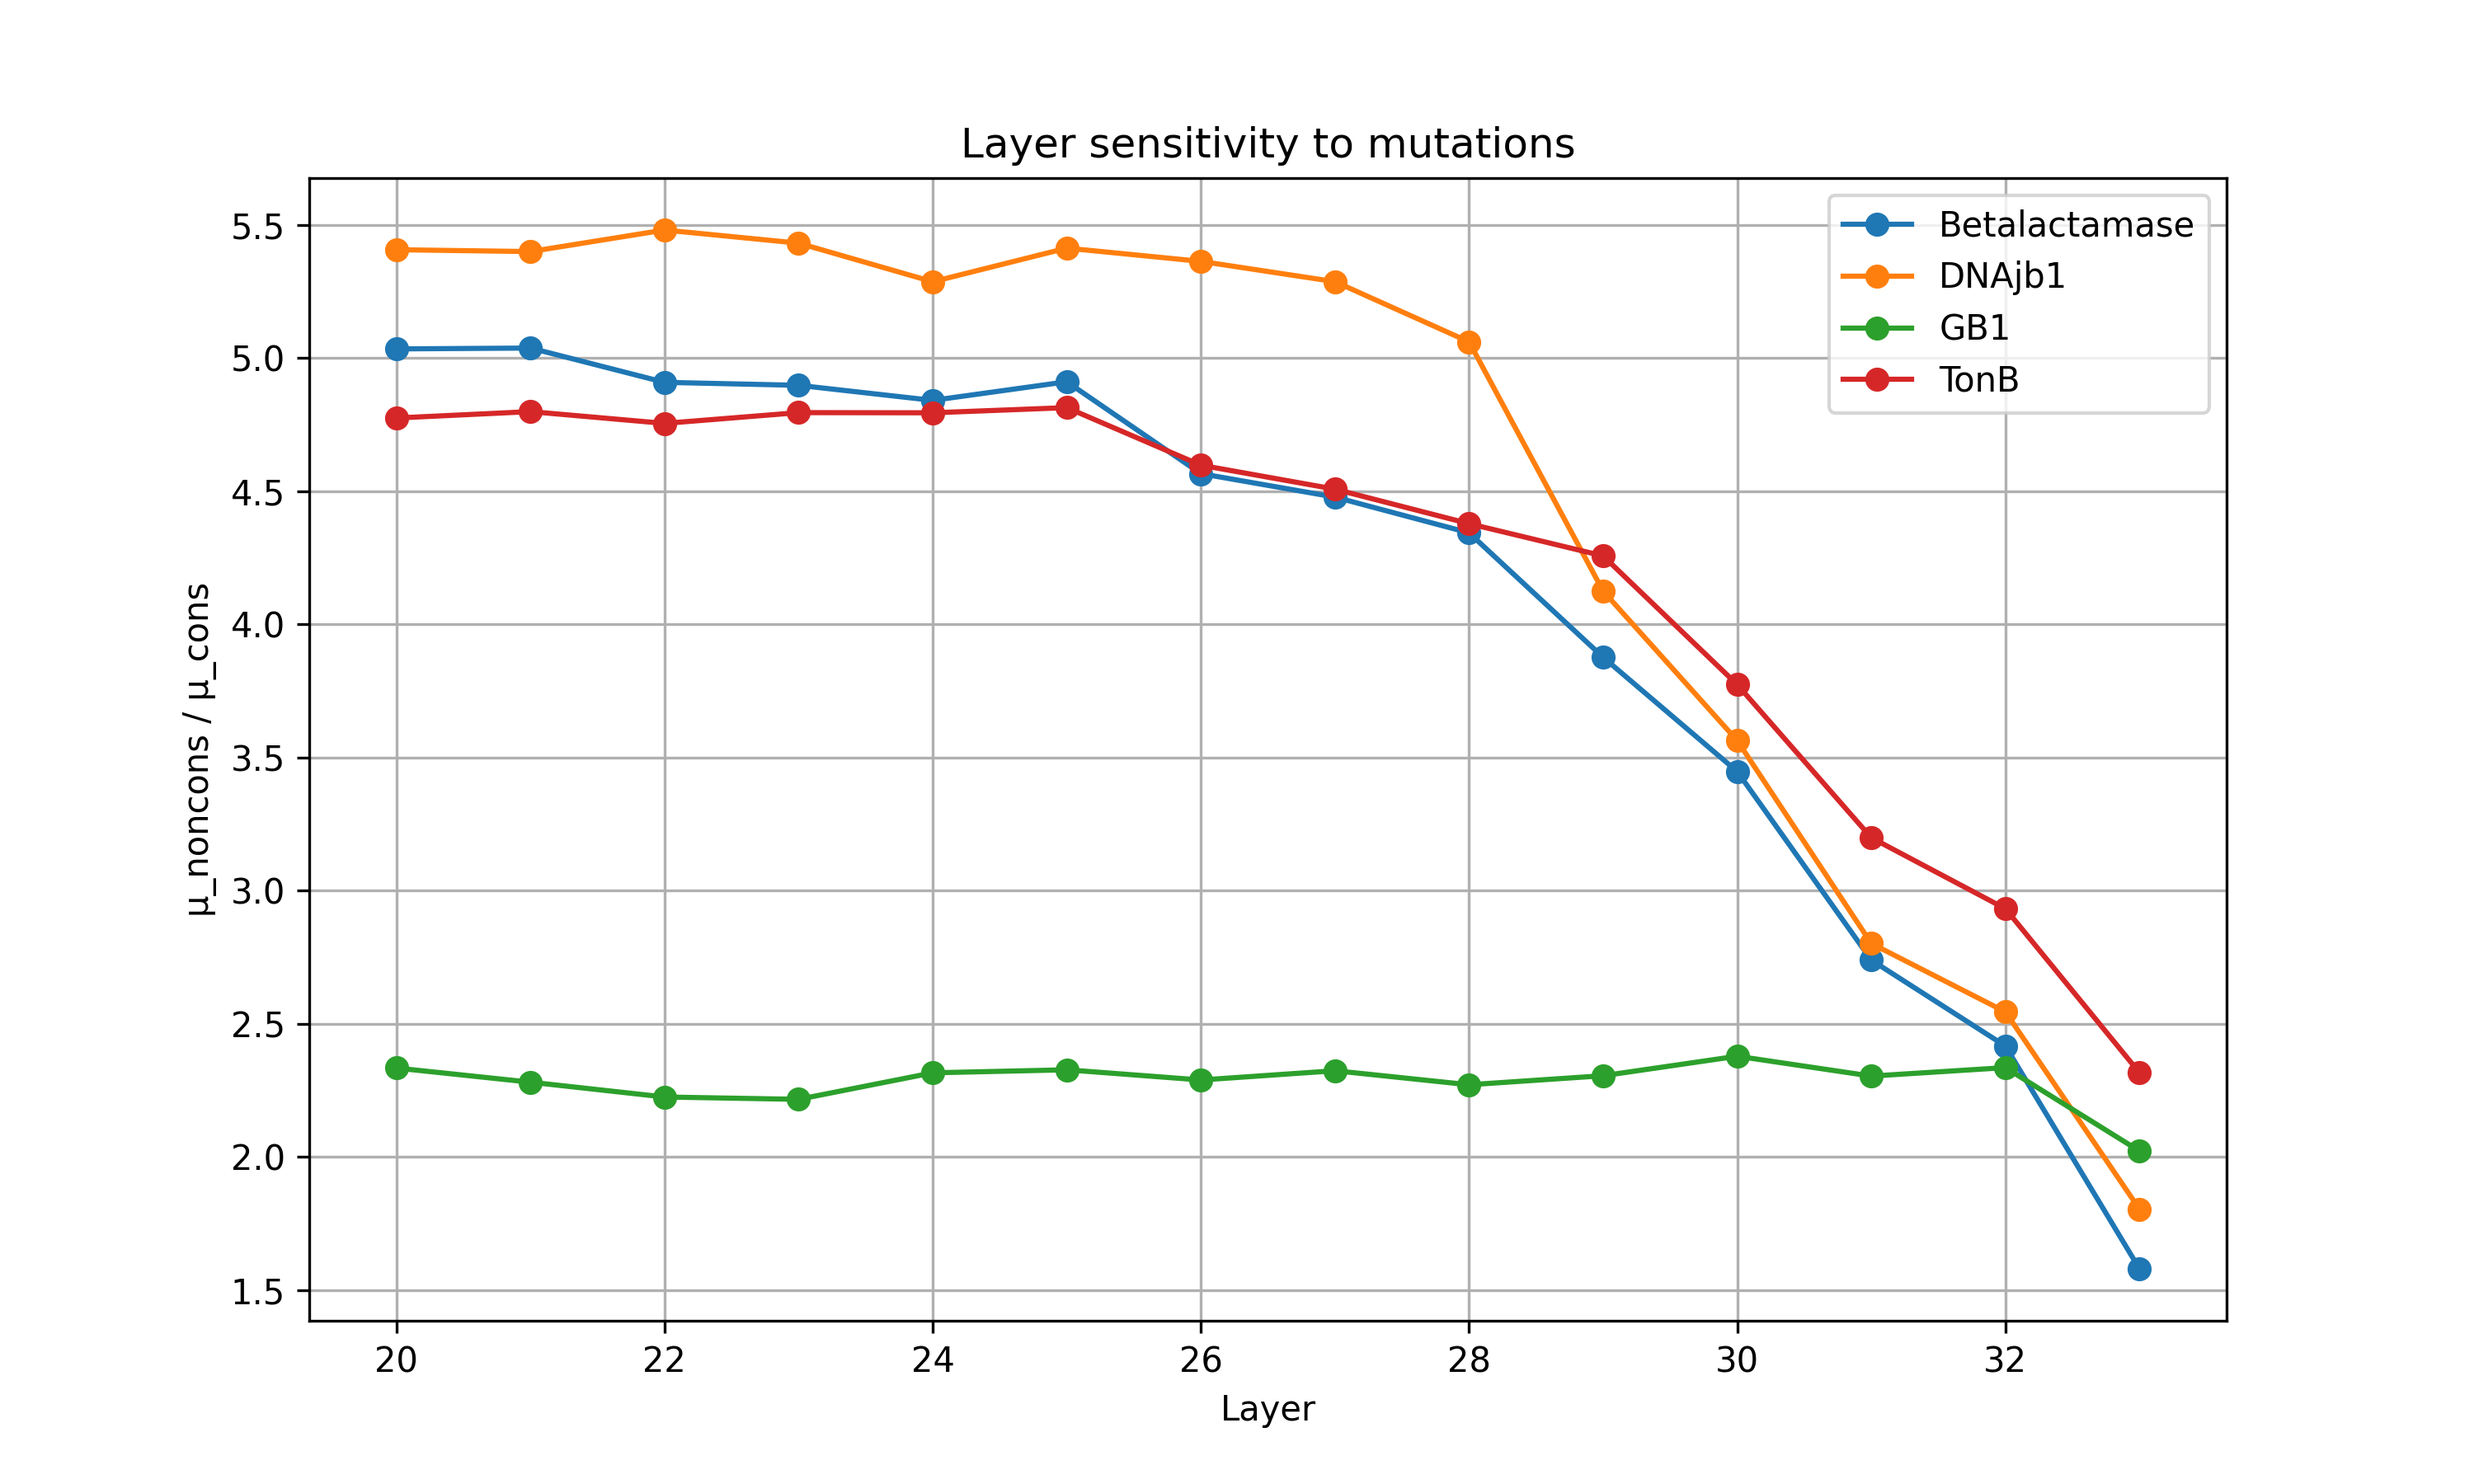
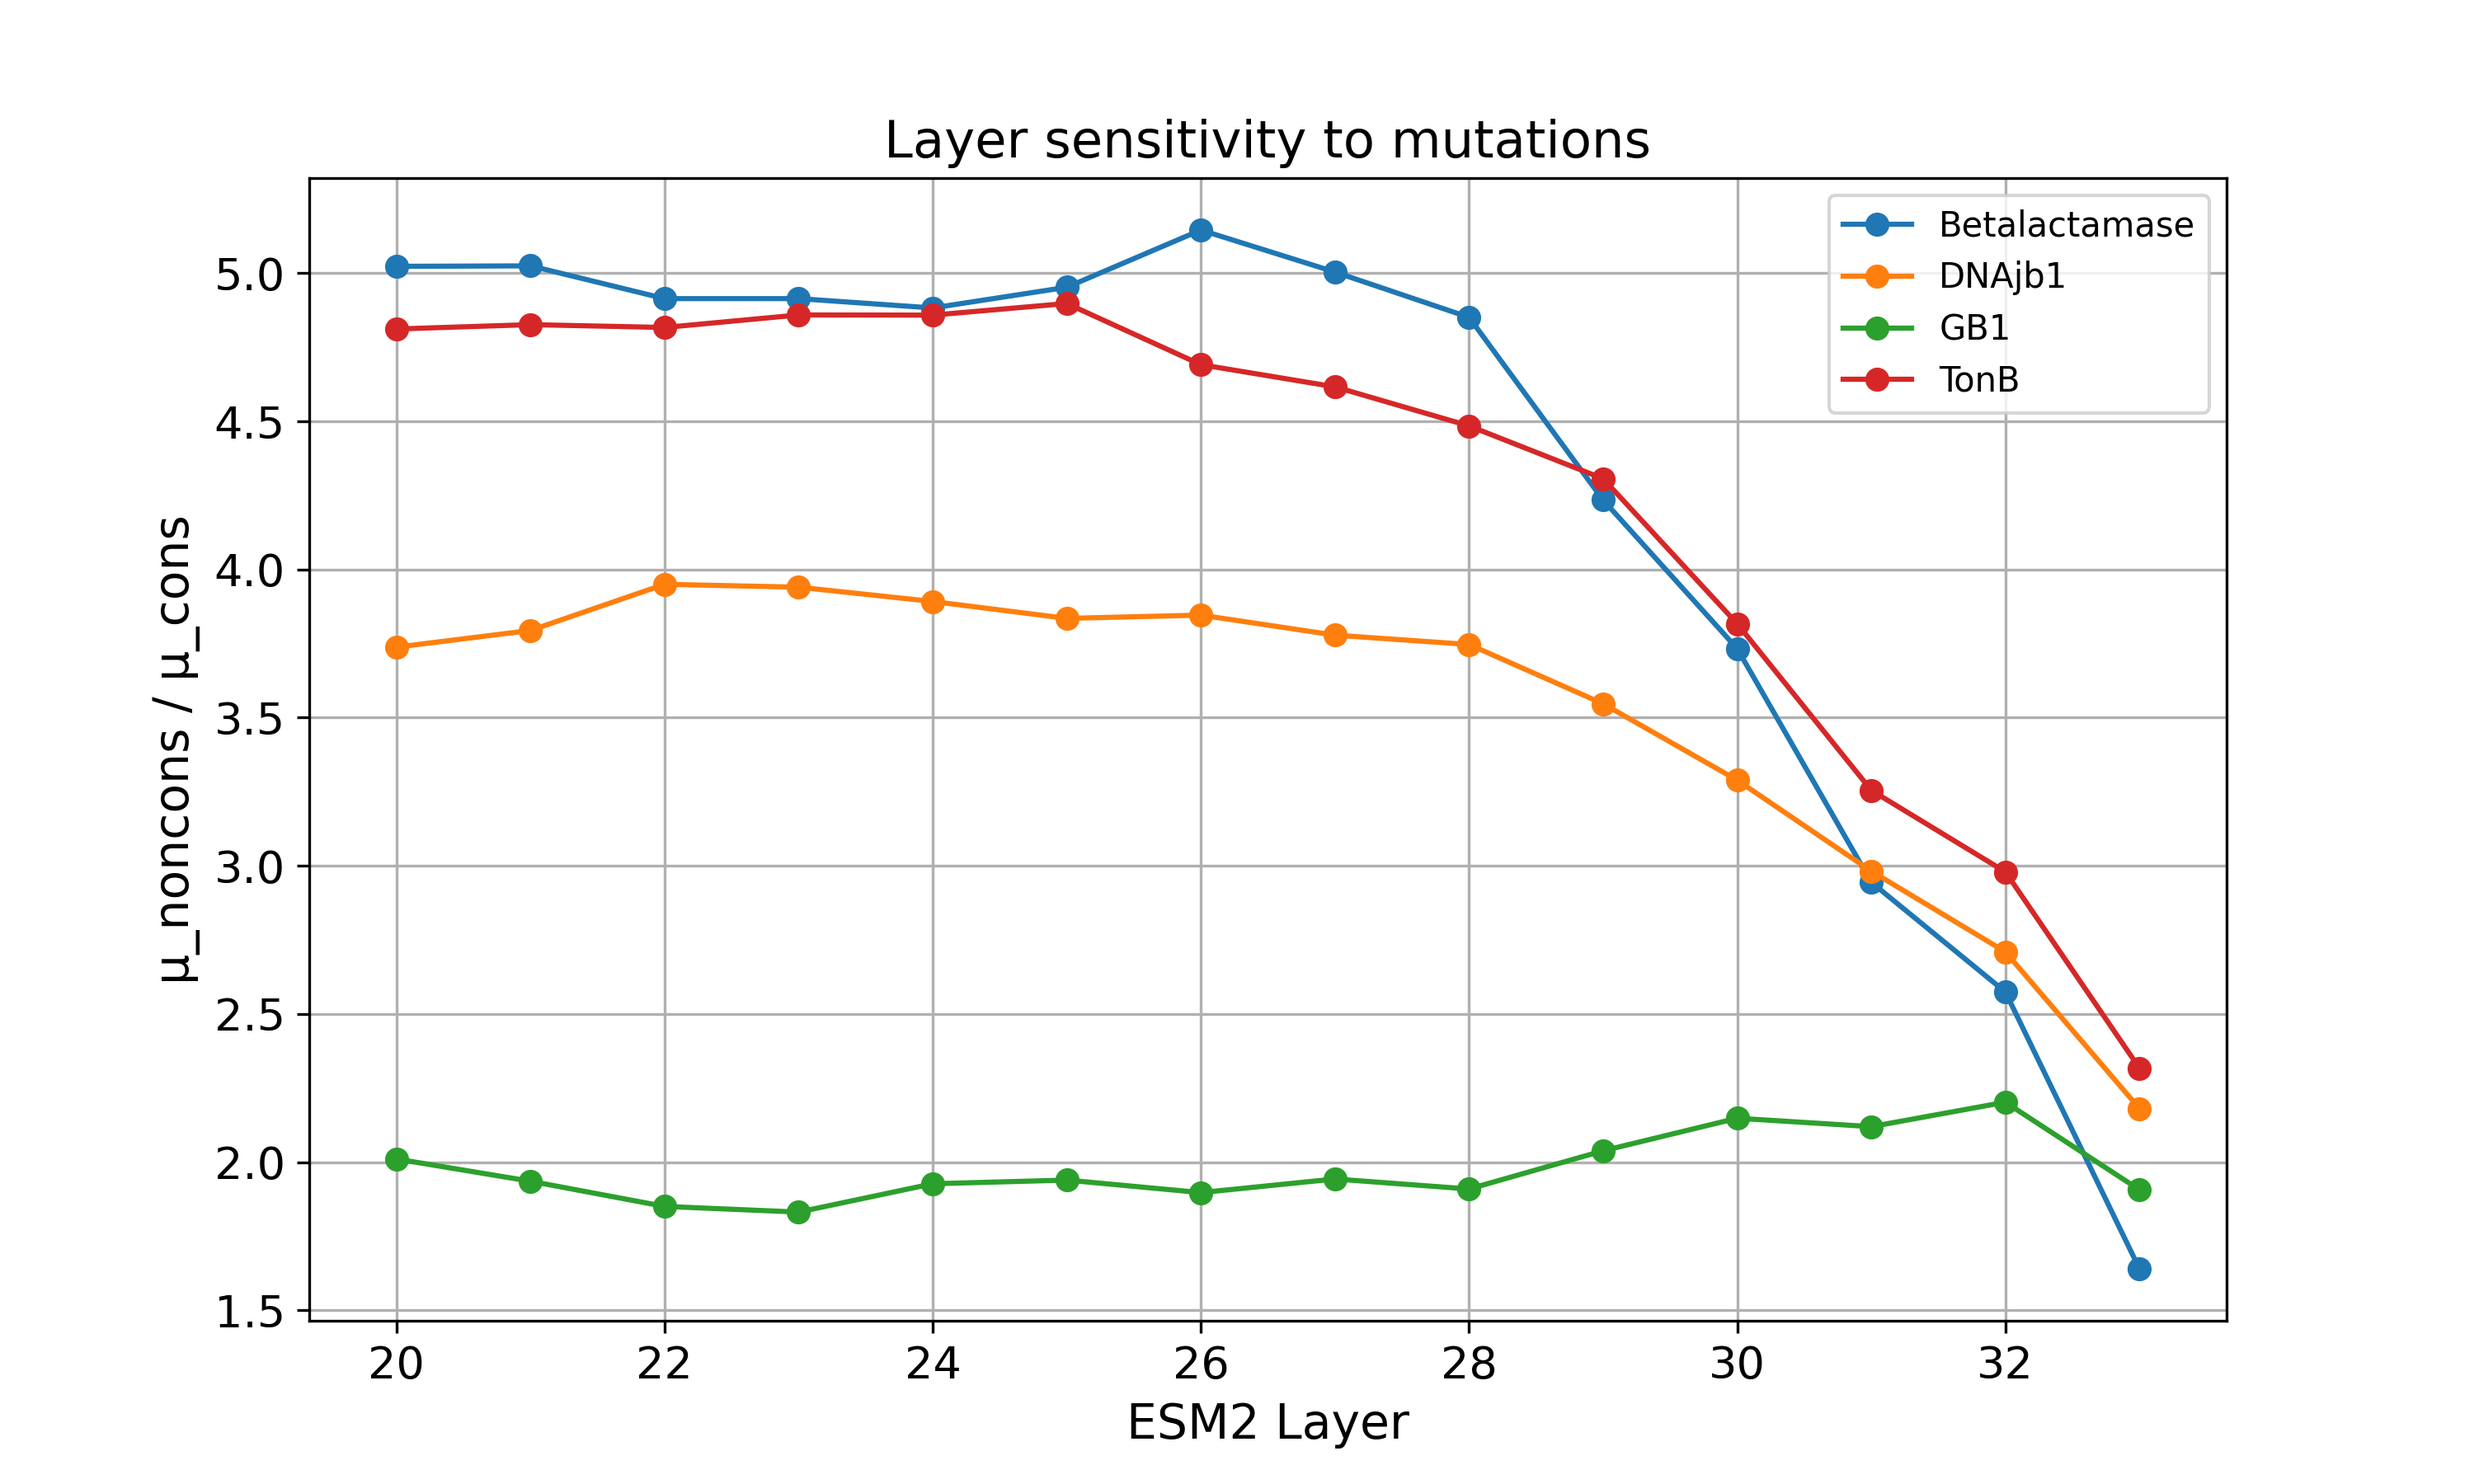
updated 2 graphs

diff --git a/layer_selection/layer_selection.py b/layer_selection/layer_selection.py
@@ -177,9 +177,11 @@ def main():
         subset = df[df["protein"] == protein]
         plt.plot(subset["layer"], subset["ratio"], marker='o', label=protein)
 
-    plt.xlabel("Layer")
-    plt.ylabel("μ_noncons / μ_cons")
-    plt.title("Layer sensitivity to mutations")
+    plt.xlabel("ESM2 Layer", size = 14)
+    plt.ylabel("μ_noncons / μ_cons", size = 14)
+    plt.title("Layer sensitivity to mutations", size = 15)
+    plt.xticks(fontsize = 13)
+    plt.yticks(fontsize = 13)
     plt.legend()
     plt.grid()
     plt.savefig("layer_selection.png", dpi=300)
